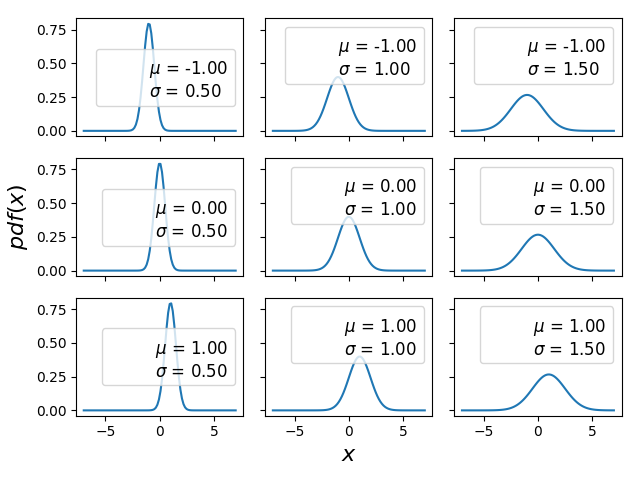
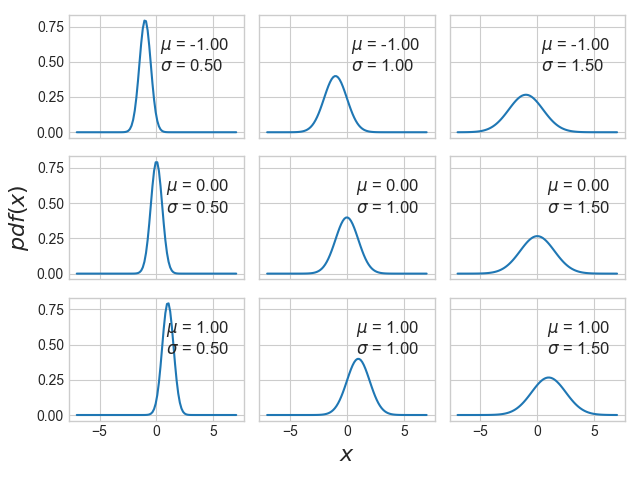
Adding seaborn style

diff --git a/ch01/gaussian_distribution.py b/ch01/gaussian_distribution.py
@@ -3,6 +3,8 @@ import numpy as np
 from scipy import stats
 import seaborn as sns
 
+sns.set_style("whitegrid")
+
 mu_params = [-1, 0, 1]
 sd_params = [0.5, 1, 1.5]
 
